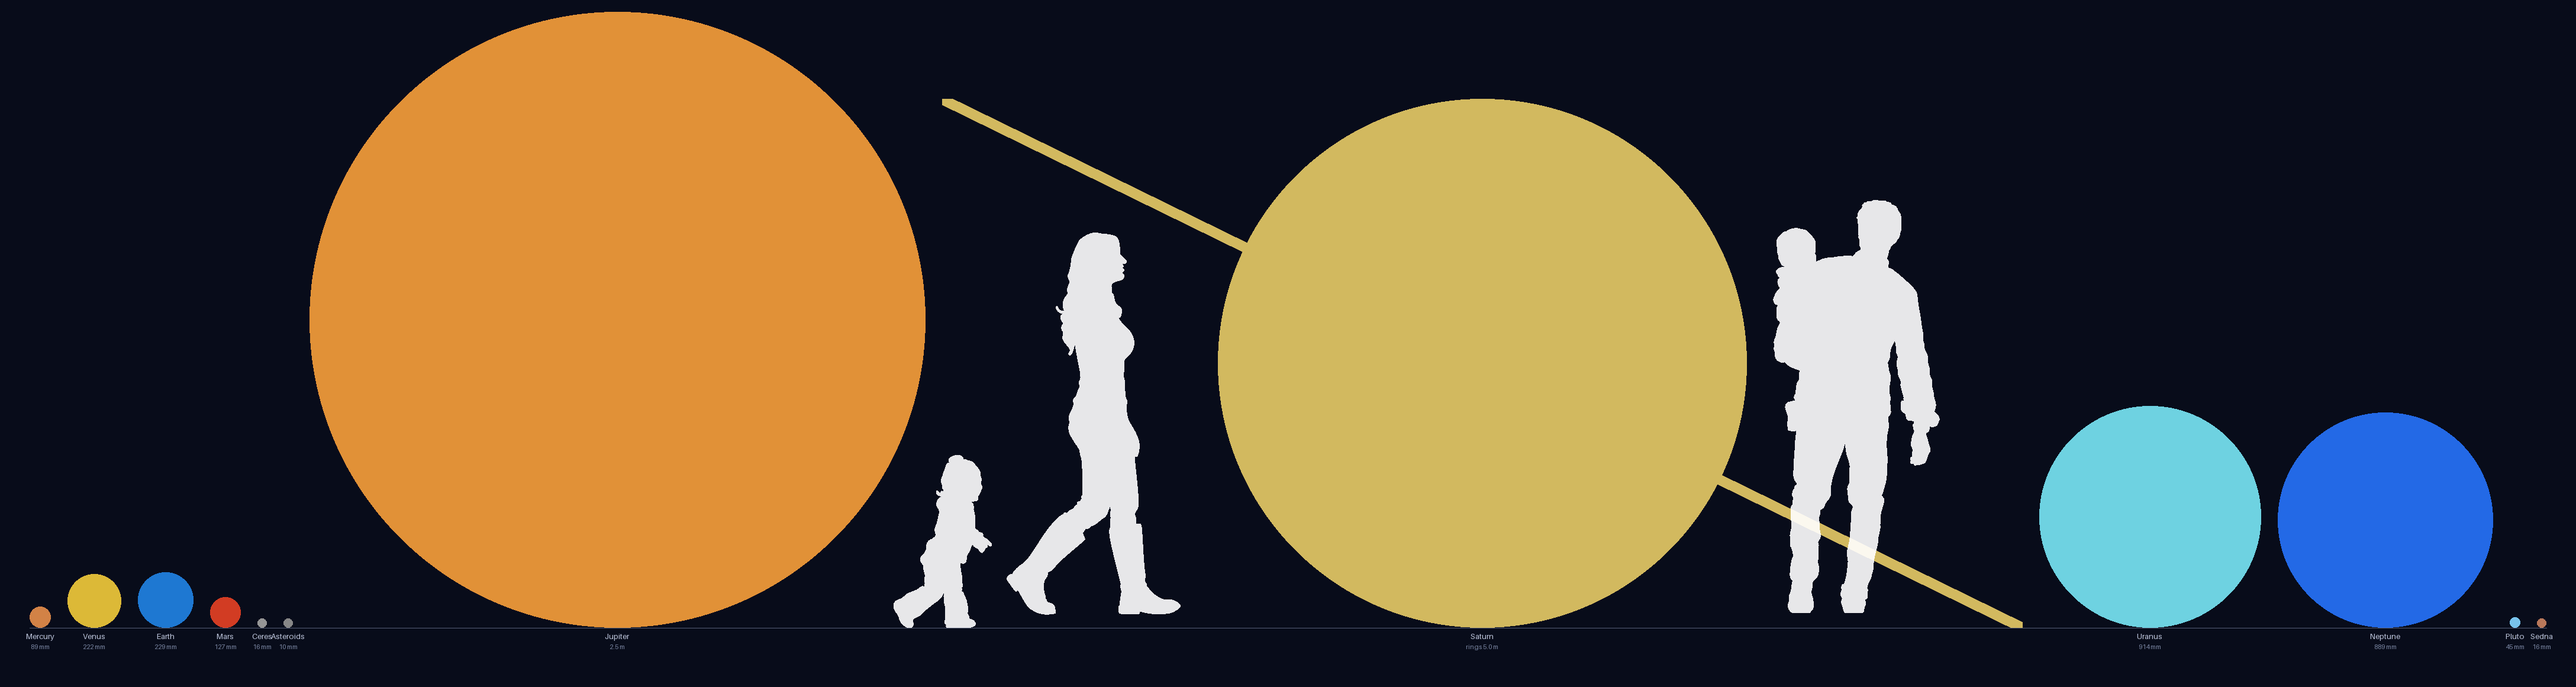
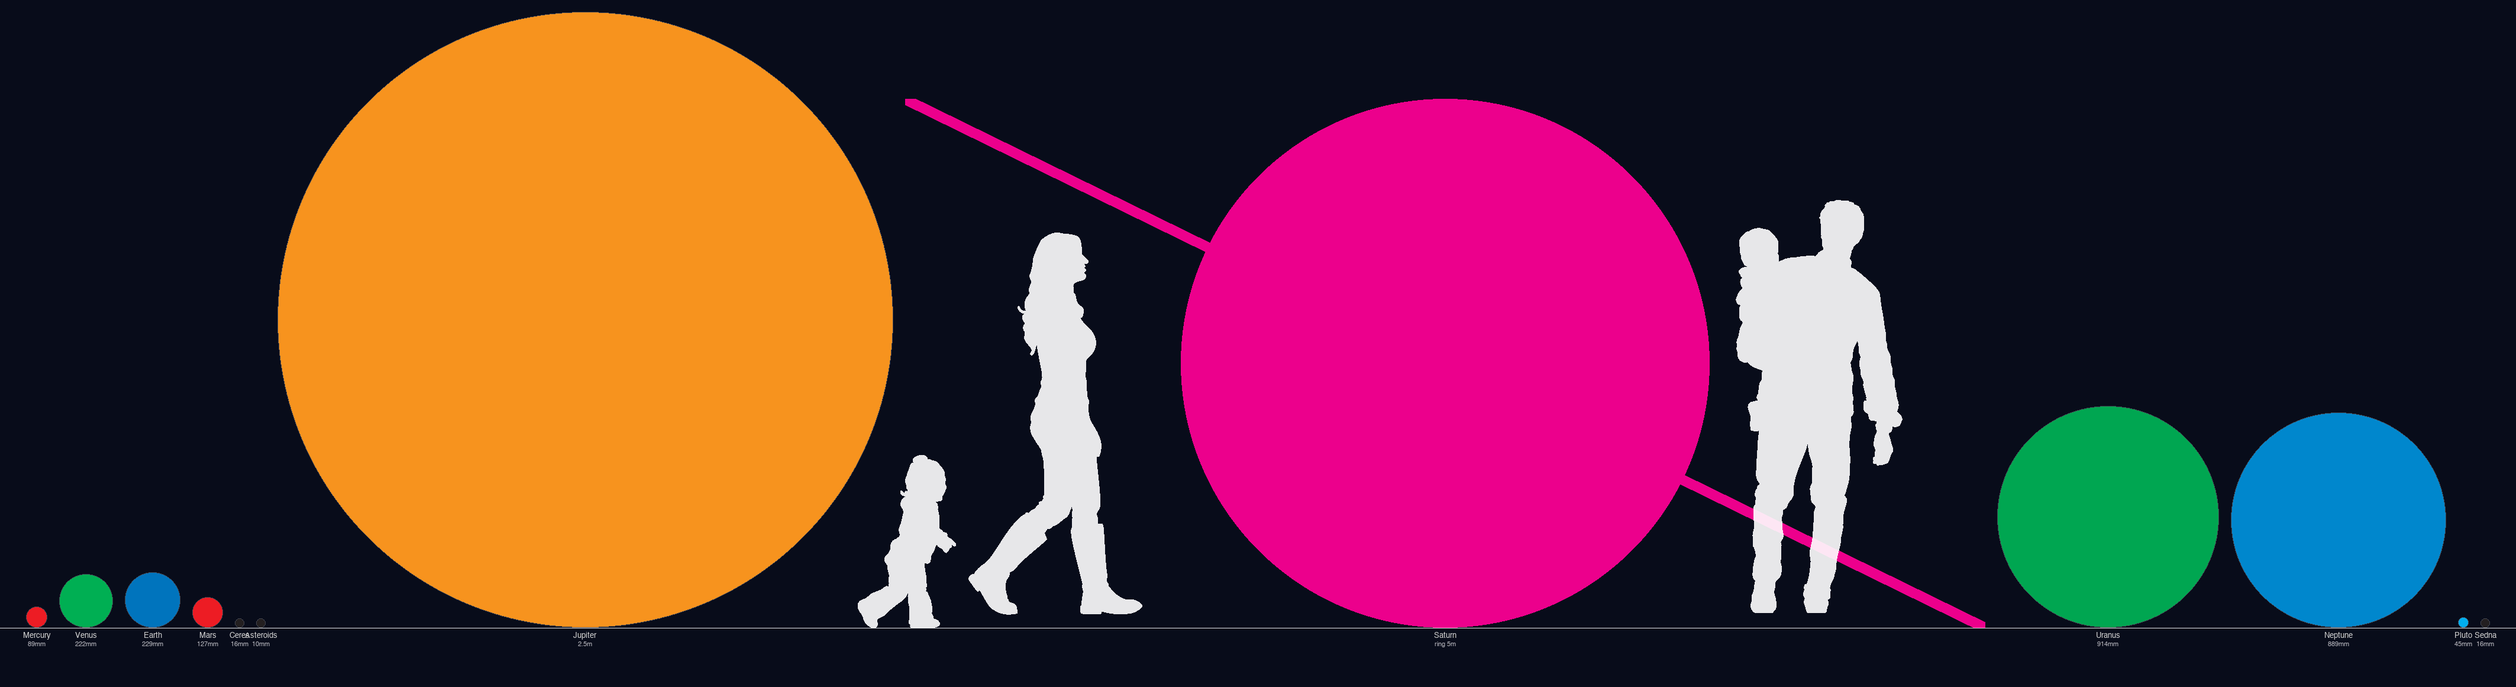
Adjust colors of elevation-composite illustration to match marker colors. Edit and rearrange copy and content.

diff --git a/model/index.html b/model/index.html
@@ -35,22 +35,6 @@
       </p>
     </article>
 
-    <article class="card">
-      <h2>Size of Model Relative To People</h2>
-      <p style="color:var(--muted-text);font-size:0.9rem;margin-bottom:14px">
-        Every model body shown at the same 1&nbsp;to&nbsp;55&nbsp;million scale.
-        Obviously we would never see them side-by-side like this.
-        This perspective squeezes out all the space to convey the relative sizes of the bodies in the LASSP model compared to people.
-      </p>
-      <div style="overflow-x:auto">
-        <a href="../img/illustrations/elevation-composite.png" target="_blank" rel="noopener">
-          <img src="../img/illustrations/elevation-composite.png"
-               alt="Scale comparison of all LASSP model bodies from Mercury to Sedna"
-               style="display:block;min-width:900px;max-width:100%;height:auto;border-radius:6px" />
-        </a>
-      </div>
-    </article>
-
     <div class="content-grid">
 
       <article class="card">
@@ -70,25 +54,34 @@
         </p>
       </article>
 
-      <article class="card">
-        <h2>How the Math Works</h2>
-        <p>
-          One inch in the model equals 55 million inches in real life — about 870 miles.
-          To find the model size of any object, just divide its real diameter by 55 million.
-        </p>
-        <p>
-          Earth is about 7,926 miles across. Divide by 55 million and you get roughly
-          <strong>9 inches</strong> — just about the size of a soccer ball.
-        </p>
-        <p>
-          The Moon? About 2,159 miles across, which works out to <strong>2½ inches</strong> in the model —
-          the size of a baseball. And at the model scale, the Moon orbits only <strong>23 feet</strong> from
-          the Earth. The real Moon is a quarter million miles away, so that 23-foot separation is actually
-          one of the most accurate things about the model.
-        </p>
-      </article>
+      <section id="fabdrawing" class="fabdrawing-panel">
+        <article class="card">
+          <figure>
+            <a href="/img/fabdrawings/sun-fab.jpg" target="_blank" rel="noopener"><img src="/img/fabdrawings/sun-fab.jpg" alt="Fabrication drawing of The Sun" loading="lazy" /></a>
+            <figcaption>Historic plan of Griffith Observatory</figcaption>
+          </figure>
+        </article>
+      </section>
 
     </div>
+
+    <article class="card">
+      <h2>How the Math Works</h2>
+      <p>
+        One inch in the model equals 55 million inches in real life — about 870 miles.
+        To find the model size of any object, just divide its real diameter by 55 million.
+      </p>
+      <p>
+        Earth is about 7,926 miles across. Divide by 55 million and you get roughly
+        <strong>9 inches</strong> — just about the size of a soccer ball.
+      </p>
+      <p>
+        The Moon? About 2,159 miles across, which works out to <strong>2½ inches</strong> in the model —
+        the size of a baseball. And at the model scale, the Moon orbits only <strong>23 feet</strong> from
+        the Earth. The real Moon is a quarter million miles away, so that 23-foot separation is actually
+        one of the most accurate things about the model.
+      </p>
+    </article>
 
     <article class="card">
       <h2>The Planets at a Glance</h2>
@@ -161,14 +154,25 @@
           can fly straight through it without hitting anything. The model lets you feel that emptiness
           at a human scale, which is something no photograph or diagram can do.
         </p>
-        <blockquote>
-          Whether you grew up with Flash Gordon, James T. Kirk, or Skywalker, no one is zooming from
-          planet to planet on a day-to-day basis.<br />
-          — Jack Anderson, Project Designer
-        </blockquote>
       </article>
 
     </div>
+
+    <section id="scale-illustration" class="illustration-panel">
+      <article class="card">
+        <h2>Size of Model Relative To People</h2>
+        <p style="color:var(--muted-text);font-size:0.9rem;margin-bottom:14px">
+          Every model body shown at the same 1&nbsp;to&nbsp;55&nbsp;million scale.
+          Obviously we would never see them side-by-side like this.
+          This perspective squeezes out all the space to convey the relative sizes of the bodies in the LASSP model compared to people.
+        </p>
+        <a href="../img/illustrations/elevation-composite.png" target="_blank" rel="noopener">
+          <img src="../img/illustrations/elevation-composite.png"
+               alt="Scale comparison of all LASSP model bodies from Mercury to Sedna"
+               loading="lazy" />
+        </a>
+      </article>
+    </section>
 
     <footer>
       <p>

diff --git a/model/the-sun/index.html b/model/the-sun/index.html
@@ -43,19 +43,19 @@
     </section>
 
     <section id="map-marker" class="marker-map content">
-      <h2>Potential Location</h2>
+      <h2>Actual Location</h2>
       <article class="card">
         <div id="marker-map" class="marker-map-canvas" aria-label="Marker location map"></div>
       </article>
     </section>
 
-    <h2>Fabrication Drawing</h2>
+    <h2>Historical Plan</h2>
     <section id="fabdrawing" class="fabdrawing-panel">
       <article class="card">
         <a href="/img/fabdrawings/sun-fab.jpg" target="_blank" rel="noopener"><img src="/img/fabdrawings/sun-fab.jpg" alt="Fabrication drawing of The Sun" loading="lazy" /></a>
       </article>
     </section>
-    <a href="/downloads/lassp_fab.pdf" class="fab-pkg-link" target="_blank" rel="noopener"><img src="/img/pdf-icon.webp" alt="" class="fab-pkg-icon"> Fabrication Package</a>
+    
     <!-- End editable sections -->
 
     <div class="pager" data-bind="prevNextNav" hidden>

diff --git a/css/site.css b/css/site.css
@@ -391,3 +391,30 @@ footer {
   height: auto;
   display: block;
 }
+
+.fabdrawing-panel figcaption {
+  padding: 8px 12px 10px;
+  font-size: 0.8rem;
+  color: var(--muted-text);
+  text-align: center;
+}
+
+#scale-illustration .card {
+  padding: 16px 16px 0;
+}
+
+#scale-illustration a {
+  display: block;
+  overflow-x: auto;
+  overflow-y: hidden;
+  margin-top: 14px;
+  margin-bottom: 14px;
+}
+
+#scale-illustration img {
+  display: block;
+  min-width: 900px;
+  max-width: none;
+  height: auto;
+  border-radius: 6px;
+}
